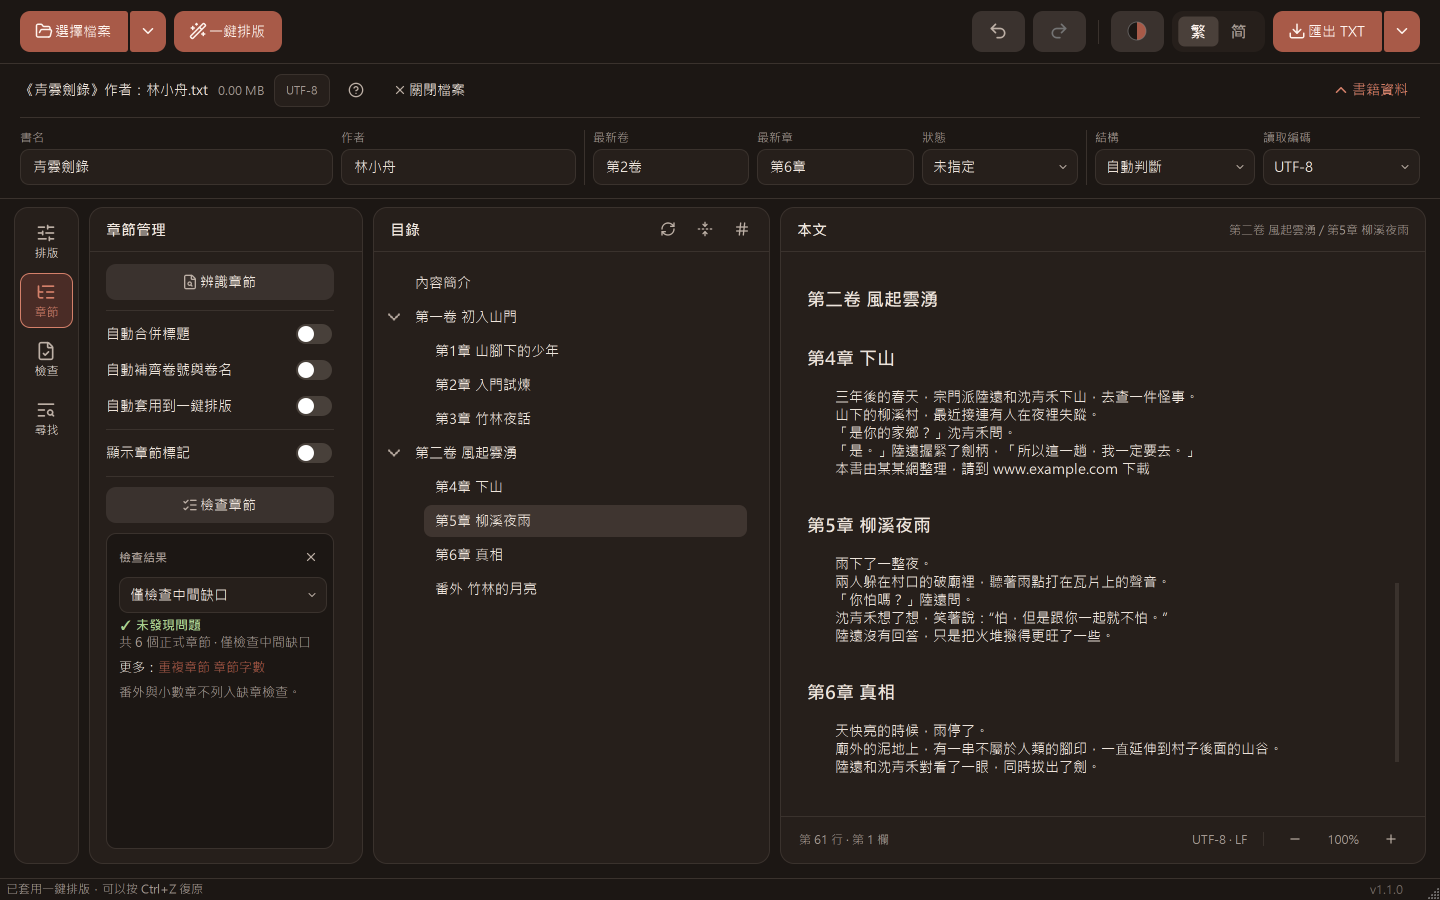
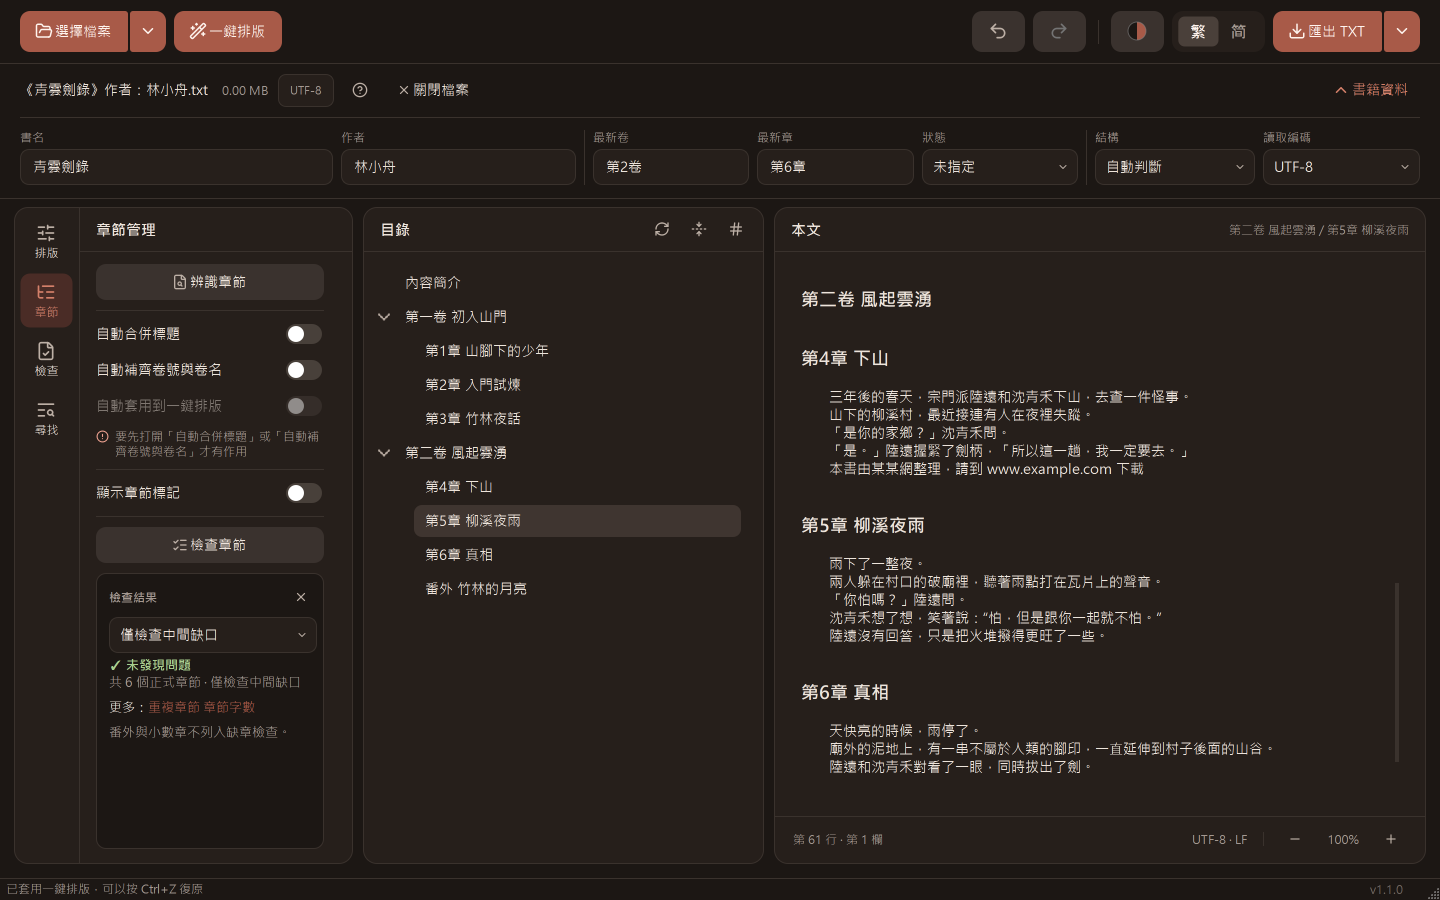
[介面] 圖示列與功能卡片合成一組；設定沒作用時的「!」說明；長檔名中間省略；EPUB 標題裡的換行接成一行

diff --git a/ui_qt/main_window.py b/ui_qt/main_window.py
@@ -89,7 +89,7 @@ from . import __version__
 from .window_common import (
     DEFAULT_STRUCTURE_MODE, EDITOR_BASE_FONT_PX, EDITOR_ZOOM_MAX, EDITOR_ZOOM_MIN, MARKER_GUIDE,
     MARK_SCAN_DELAY_MS, MAX_HIGHLIGHT_SPANS, MAX_HISTORY_CHARS, MAX_HISTORY_STEPS, MIN_HISTORY_STEPS,
-    MERGE_WARN_BYTES, MIN_WINDOW_HEIGHT, MIN_WINDOW_WIDTH, OPEN_FILE_FILTER, PENDING_LINE_MAP_LIMIT, TYPING_CHECKPOINT_DELAY_MS, AUTO_TOC_REFRESH_SECONDS, WARM_CHUNK_LINES, WARM_NOW_LINES,
+    MERGE_WARN_BYTES, MIN_WINDOW_HEIGHT, MIN_WINDOW_WIDTH, OPEN_FILE_FILTER, PENDING_LINE_MAP_LIMIT, TYPING_CHECKPOINT_DELAY_MS, AUTO_TOC_REFRESH_SECONDS, SIDE_RAIL_GAP, WARM_CHUNK_LINES, WARM_NOW_LINES,
     WARM_START_DELAY_MS, WARM_WAITING_SLICE, _LayoutWatcher, _MARKER_REGEX, _MarkScanSignals,
     _NUMBER_WITHOUT_UNIT, _ToolDialogWatcher, _chapter_line_mapper, _diff_line_mapper, _format_line_mapper,
     EPUB_ENCODING, WORD_ENCODING, _line_opcodes, _settle, _tree_depth, openable, short_toc_label,
@@ -541,7 +541,7 @@ class MainWindow(WindowStateMixin, ToolWindowsMixin, TocEditMixin, QMainWindow):
         splitter_wrap = QWidget()
         splitter_wrap_layout = QHBoxLayout(splitter_wrap)
         splitter_wrap_layout.setContentsMargins(14, 8, 14, 14)
-        splitter_wrap_layout.setSpacing(10)
+        splitter_wrap_layout.setSpacing(SIDE_RAIL_GAP)
         # 最左邊的圖示列：一格一張功能卡片，貼在卡片旁邊（名稱一直顯示，不靠滑鼠提示）
         self.side_rail = SideRail([
             ("options", "sliders-horizontal", "排版"),
@@ -2100,6 +2100,7 @@ class MainWindow(WindowStateMixin, ToolWindowsMixin, TocEditMixin, QMainWindow):
         self.chapter_panel.set_merge_titles(False)
         self.chapter_panel.set_infer_volumes(False)
         self._merge_titles = self._infer_volumes = False
+        self._sync_auto_apply_available()
         self._rebuild_preview_toc()
         self._show_status("已取消這本書的預覽；開下一本書時照原本的開關預覽")
 
@@ -2111,6 +2112,7 @@ class MainWindow(WindowStateMixin, ToolWindowsMixin, TocEditMixin, QMainWindow):
         self._suspended_previews = None
         self.chapter_panel.set_merge_titles(self._merge_titles)
         self.chapter_panel.set_infer_volumes(self._infer_volumes)
+        self._sync_auto_apply_available()
 
     def _update_order_hint(self):
         """有章放錯位置時，目錄上方提示「依章號重排」（跟缺章檢查的「順序錯亂」同一套判斷）。"""
@@ -2712,10 +2714,21 @@ class MainWindow(WindowStateMixin, ToolWindowsMixin, TocEditMixin, QMainWindow):
         self.side_rail.set_active({self.options_panel: "options", self.chapter_panel: "chapter",
                                    self.content_panel: "content", self.find_bar: "find"}.get(panel))
         self.side_card.setVisible(panel is not None)
+        self._join_side_card(panel is not None)
         if panel is self.chapter_panel:
             self._refresh_missing_report()
         if was_open != (panel is not None):
             self._resize_cards_for_side_panel(sizes, opening=panel is not None)
+
+    def _join_side_card(self, joined: bool):
+        """功能卡片開著時，左側圖示列跟它合成一組：中間不留空隙、共用外圈的圓角（圖示列右側、卡片左側直角，
+        中間只剩卡片的左框線當分隔），一眼看得出卡片是哪一排按鈕開的。收起時圖示列照舊是獨立的圓角小卡。"""
+        self.side_rail.parentWidget().layout().setSpacing(0 if joined else SIDE_RAIL_GAP)
+        for widget, name in ((self.side_rail, "joinedRight"), (self.side_card, "joinedLeft")):
+            if widget.property(name) != joined:
+                widget.setProperty(name, joined)
+                widget.style().unpolish(widget)
+                widget.style().polish(widget)
 
     def _resize_cards_for_side_panel(self, sizes, opening: bool):
         """開、關功能卡片時目錄卡片維持原本的寬度，只由本文卡片讓出或拿回：

diff --git a/ui_qt/widgets.py b/ui_qt/widgets.py
@@ -550,10 +550,37 @@ class ElidedLabel(QLabel):
     def minimumSizeHint(self):
         return QSize(0, super().minimumSizeHint().height())
 
+    _ELIDE = Qt.TextElideMode.ElideRight
+
     def _apply_elide(self):
         metrics = self.fontMetrics()
-        super().setText(metrics.elidedText(self._full_text, Qt.TextElideMode.ElideRight,
-                                           max(0, self.contentsRect().width())))
+        super().setText(metrics.elidedText(self._full_text, self._ELIDE, max(0, self.contentsRect().width())))
+
+    def is_elided(self) -> bool:
+        return QLabel.text(self) != self._full_text
+
+
+class MiddleElidedLabel(ElidedLabel):
+    """檔名：頭尾都重要（書名在前、作者跟副檔名在後）。夠寬時照全文；不夠時中間用「…」省略，
+    最小寬度固定（MIN_WIDTH），很長的檔名不會把右邊的大小、編碼、關閉檔案擠掉，也不會把視窗最小寬度撐到螢幕外。
+    text() 照樣是完整的檔名，滑鼠移上去也看得到完整的。"""
+
+    MIN_WIDTH = 160
+    _ELIDE = Qt.TextElideMode.ElideMiddle
+
+    def __init__(self, text: str = "", parent=None):
+        super().__init__(text, parent)
+        self.setSizePolicy(QSizePolicy.Policy.Preferred, QSizePolicy.Policy.Preferred)
+
+    def sizeHint(self):
+        return QSize(self.fontMetrics().horizontalAdvance(self._full_text) + 4, super().sizeHint().height())
+
+    def minimumSizeHint(self):
+        return QSize(min(self.MIN_WIDTH, self.sizeHint().width()), super().minimumSizeHint().height())
+
+    def setText(self, text: str):
+        super().setText(text)
+        self.updateGeometry()
 
 
 class VDivider(QFrame):
@@ -673,6 +700,29 @@ class _GripHandle(QSplitterHandle):
     def leaveEvent(self, event):
         self.update()
         super().leaveEvent(event)
+
+
+class ConditionNote(QWidget):
+    """設定「現在沒作用」時寫在它底下的原因：圓圈驚嘆號＋一句話（UI_RULES：只在沒作用時出現，
+    一般開關的說明照舊寫在狀態列，不每個都掛一行）。"""
+
+    def __init__(self, text: str, parent=None):
+        super().__init__(parent)
+        layout = QHBoxLayout(self)
+        layout.setContentsMargins(0, 0, 0, 0)
+        layout.setSpacing(6)
+        self.icon = QLabel()
+        layout.addWidget(self.icon, 0, Qt.AlignmentFlag.AlignTop)
+        self.label = QLabel(text)
+        self.label.setObjectName("fileLabel")
+        self.label.setWordWrap(True)
+        layout.addWidget(self.label, 1)
+        self.hide()
+
+    def set_colors(self, tokens):
+        size = self.label.fontMetrics().height() - 2
+        self.icon.setPixmap(icons.make_icon("circle-alert", tokens.warn_text, size).pixmap(size, size))
+        self.icon.setFixedSize(size, self.label.fontMetrics().height())
 
 
 class Divider(QFrame):

diff --git a/core/epub_reader.py b/core/epub_reader.py
@@ -23,6 +23,7 @@ _DOCUMENT_TYPES = {"application/xhtml+xml", "text/html", "application/x-dtbook+x
 _BLOCKS = {"p", "div", "h1", "h2", "h3", "h4", "h5", "h6", "li", "blockquote", "pre", "tr", "section",
            "article", "header", "footer", "dt", "dd", "figcaption", "caption", "hr", "table", "ul", "ol"}
 _SKIPPED = {"script", "style", "head", "title", "svg", "math", "rt", "rp"}
+_HEADINGS = {"h1", "h2", "h3", "h4", "h5", "h6"}
 _SPACES = re.compile(r"[ \t\r\n\f\v]+")
 
 
@@ -31,13 +32,16 @@ class EpubError(Exception):
 
 
 class _TextExtractor(HTMLParser):
-    """區塊元素各自一行，br 換行；行內的空白、換行照 HTML 的規則縮成一個空格。"""
+    """區塊元素各自一行，br 換行；行內的空白、換行照 HTML 的規則縮成一個空格。
+    標題（h1～h6）裡的 br 當成空格：「<h2>第一章<br/>一人一刀</h2>」是一個標題，拆成兩行的話章名會變成正文、
+    目錄只剩章號（要開自動合併標題才接得回來）。"""
 
     def __init__(self):
         super().__init__(convert_charrefs=True)
         self.lines: list[str] = []
         self._current: list[str] = []
         self._skip_depth = 0
+        self._heading_depth = 0
 
     def _flush(self):
         text = _SPACES.sub(" ", "".join(self._current)).strip()
@@ -50,12 +54,23 @@ class _TextExtractor(HTMLParser):
         if tag in _SKIPPED:
             self._skip_depth += 1
         elif tag == "br":
-            self._flush()
+            self._line_break()
         elif tag in _BLOCKS:
+            self._flush()
+            if tag in _HEADINGS:
+                self._heading_depth += 1
+
+    def _line_break(self):
+        if self._heading_depth:
+            self._current.append(" ")
+        else:
             self._flush()
 
     def handle_startendtag(self, tag, attrs):
-        if tag.lower() in ("br", "hr"):
+        tag = tag.lower()
+        if tag == "br":
+            self._line_break()
+        elif tag == "hr":
             self._flush()
 
     def handle_endtag(self, tag):
@@ -64,6 +79,8 @@ class _TextExtractor(HTMLParser):
             self._skip_depth = max(0, self._skip_depth - 1)
         elif tag in _BLOCKS:
             self._flush()
+            if tag in _HEADINGS:
+                self._heading_depth = max(0, self._heading_depth - 1)
 
     def handle_data(self, data):
         if not self._skip_depth:

diff --git a/ui_qt/chapter_panel.py b/ui_qt/chapter_panel.py
@@ -9,7 +9,7 @@ from PySide6.QtWidgets import (
 )
 
 from . import i18n
-from .widgets import Divider, HoverIconButton, IconButton, PanelScroll, ToggleSwitch, make_card_header
+from .widgets import ConditionNote, Divider, HoverIconButton, IconButton, PanelScroll, ToggleSwitch, make_card_header
 
 MISSING_CHECK_MODES = ["僅檢查中間缺口", "每卷從第1章起算", "同作品跨卷接續"]
 
@@ -74,6 +74,9 @@ class ChapterPanel(QWidget):
         self.auto_apply_toggle = ToggleSwitch("自動套用到一鍵排版")
         self.auto_apply_toggle.clicked.connect(lambda checked: self.auto_apply_preview_toggled.emit(checked))
         root.addWidget(self.auto_apply_toggle)
+        # 兩個預覽開關都關著時沒有東西可以套用：開關變灰，寫出原因
+        self.auto_apply_note = ConditionNote("要先打開「自動合併標題」或「自動補齊卷號與卷名」才有作用")
+        root.addWidget(self.auto_apply_note)
         # 開關只是預覽；「套用到本文」「取消預覽」在目錄上方的預覽列，跟預覽的目錄在一起
 
         root.addWidget(Divider())
@@ -117,6 +120,10 @@ class ChapterPanel(QWidget):
         self.infer_volumes_toggle.blockSignals(True)
         self.infer_volumes_toggle.setChecked(on)
         self.infer_volumes_toggle.blockSignals(False)
+
+    def set_auto_apply_available(self, available: bool):
+        self.auto_apply_toggle.setEnabled(available)
+        self.auto_apply_note.setVisible(not available)
 
     def set_auto_apply(self, on: bool):
         self.auto_apply_toggle.setChecked(on)
@@ -185,6 +192,7 @@ class ChapterPanel(QWidget):
     def set_report_theme(self, tokens):
         self._tokens = tokens
         self.report_close_button.set_colors(tokens.icon, tokens.icon_hover, tokens.text_faint)
+        self.auto_apply_note.set_colors(tokens)
         if self._report is not None:
             self._render_report()
 

diff --git a/ui_qt/window_toc_edit.py b/ui_qt/window_toc_edit.py
@@ -24,6 +24,7 @@ class TocEditMixin:
     def _on_merge_titles_toggled(self, on: bool):
         self._merge_titles = on
         self._suspended_previews = None      # 自己切了開關：以切過的為準，換書不再恢復取消預覽前的設定
+        self._sync_auto_apply_available()
         self._rebuild_preview_toc()
         self._show_status("已開啟自動合併標題：「第1章」接上下一行的章名；同一章的標題連續出現兩次只留第一個；"
                           "只有章號、底下緊接著另一章標題的只留有章名的" + _PREVIEW_NOTE if on else "已關閉自動合併標題")
@@ -36,9 +37,14 @@ class TocEditMixin:
     def _on_infer_volumes_toggled(self, on: bool):
         self._infer_volumes = on
         self._suspended_previews = None      # 自己切了開關：以切過的為準，換書不再恢復取消預覽前的設定
+        self._sync_auto_apply_available()
         self._rebuild_preview_toc()
         self._show_status("已開啟自動補齊卷號與卷名：從卷結尾行、章號重新起算、每章前面的卷號推出缺少的卷，"
                           "找得到卷名一起補上" + _PREVIEW_NOTE if on else "已關閉自動補齊卷號與卷名")
+
+    def _sync_auto_apply_available(self):
+        """「自動套用到一鍵排版」只在有預覽可以套時有作用：兩個預覽開關都關著時變灰、寫出原因。"""
+        self.chapter_panel.set_auto_apply_available(self._merge_titles or self._infer_volumes)
 
     def _on_auto_apply_preview_toggled(self, on: bool):
         self._auto_apply_preview = on

diff --git a/ui_qt/metadata_bar.py b/ui_qt/metadata_bar.py
@@ -11,7 +11,7 @@ from PySide6.QtWidgets import (
 )
 
 from . import i18n
-from .widgets import Divider, IconButton, IconTextButton, VDivider
+from .widgets import Divider, IconButton, IconTextButton, MiddleElidedLabel, VDivider
 
 STRUCTURE_CHOICES = ["自動判斷", "單本小說", "多作品合集"]
 STATUS_CHOICES = ["未指定", "未完結", "已完結"]
@@ -40,7 +40,8 @@ class MetadataBar(QWidget):
 
         # 檔名要能反白複製（常常要拿去搜尋或改名）；大小另外放一個標籤，
         # 複製到的才會是乾淨的檔名。
-        self.filename_label = QLabel("尚未開啟檔案")
+        # 很長的檔名在中間省略（MiddleElidedLabel），不把右邊的大小、編碼、關閉檔案擠掉
+        self.filename_label = MiddleElidedLabel("尚未開啟檔案")
         # 檔名是內容，不跟著介面切換繁簡；沒開檔時的提示字另外處理。
         i18n.skip(self.filename_label)
         self._filename_placeholder = True
@@ -208,7 +209,8 @@ class MetadataBar(QWidget):
 
     def _show_filename_menu(self, pos):
         menu = QMenu(self)
-        selected = self.filename_label.selectedText()
+        # 省略過的檔名反白到的是畫面上的字（含「…」）：那時一律複製完整檔名
+        selected = "" if self.filename_label.is_elided() else self.filename_label.selectedText()
         copy_action = menu.addAction("複製" if selected else "複製檔名")
         copy_action.triggered.connect(
             lambda: QApplication.clipboard().setText(selected or self.filename_label.text()))

diff --git a/ui_qt/filename_dialog.py b/ui_qt/filename_dialog.py
@@ -12,7 +12,8 @@ from core.filename_meta import (
 )
 from core.script_convert import SCRIPT_CHOICES, convert_script
 from . import i18n
-from .widgets import Divider, ToggleSwitch, dialog_frame, flow_container, keep_on_screen
+from .theme import active_tokens
+from .widgets import ConditionNote, Divider, ToggleSwitch, dialog_frame, flow_container, keep_on_screen
 
 
 class _TemplateInput(QLineEdit):
@@ -94,6 +95,10 @@ class FilenameDialog(QDialog):
         self.format_combo.currentIndexChanged.connect(self._update_mode_enabled)
         format_row.addStretch(1)
         root.addLayout(format_row)
+        # EPUB 固定整本一個檔（章節是書裡的目錄）：匯出方式變灰時寫出原因
+        self.mode_note = ConditionNote("EPUB 一律整本一個檔，章節會做成書裡的目錄")
+        self.mode_note.set_colors(active_tokens())
+        root.addWidget(self.mode_note)
         root.addSpacing(4)
         self.strip_markers_toggle = ToggleSwitch("匯出時移除章節標記", fill=False)
         self.strip_markers_toggle.setChecked(strip_markers)
@@ -187,6 +192,7 @@ class FilenameDialog(QDialog):
         if epub:
             self.mode_combo.setCurrentIndex(0)
         self.mode_combo.setEnabled(not epub)
+        self.mode_note.setVisible(epub)
 
     def _preview(self, template: str, default: str) -> str:
         name = build_smart_filename(self._fields, template.strip() or default)

diff --git a/ui_qt/theme.py b/ui_qt/theme.py
@@ -271,6 +271,16 @@ def build_stylesheet(t: Tokens, chevron_closed_path: str = "", chevron_open_path
         border: 1px solid {t.border};
         border-radius: 14px;
     }}
+    /* 功能卡片開著時，左側圖示列跟它合成一組：共用外圈的圓角，中間只剩卡片的左框線（main_window._join_side_card） */
+    #card[joinedRight="true"] {{
+        border-right: none;
+        border-top-right-radius: 0;
+        border-bottom-right-radius: 0;
+    }}
+    #card[joinedLeft="true"] {{
+        border-top-left-radius: 0;
+        border-bottom-left-radius: 0;
+    }}
     /* 每張卡片上緣的標題列：標題＋該卡片自己的動作圖示，用一條底線跟
        內容區分開，讓三張卡片看起來是同一套結構。 */
     #cardHeader {{

diff --git a/ui_qt/icons.py b/ui_qt/icons.py
@@ -32,6 +32,7 @@ _ICON_BODIES = {
     "chevron-down": '<path d="m6 9 6 6 6-6"/>',
     "chevron-up": '<path d="m18 15-6-6-6 6"/>',
     "circle-check": '<circle cx="12" cy="12" r="10"/><path d="m9 12 2 2 4-4"/>',
+    "circle-alert": '<circle cx="12" cy="12" r="10"/><path d="M12 8v4"/><path d="M12 16h.01"/>',
     "circle-help": ('<circle cx="12" cy="12" r="10"/>'
                     '<path d="M9.09 9a3 3 0 0 1 5.83 1c0 2-3 3-3 3"/><path d="M12 17h.01"/>'),
     "download": '<path d="M12 15V3"/><path d="M21 15v4a2 2 0 0 1-2 2H5a2 2 0 0 1-2-2v-4"/><path d="m7 10 5 5 5-5"/>',

diff --git a/ui_qt/window_common.py b/ui_qt/window_common.py
@@ -18,6 +18,7 @@ MIN_HISTORY_STEPS = 3
 # 輸入時多久沒有新的按鍵才視為一次「停頓」、存成一個復原步驟；
 # 不是每個按鍵都存一份，那樣復原歷史會被打字過程灌爆。
 TYPING_CHECKPOINT_DELAY_MS = 450
+SIDE_RAIL_GAP = 10                 # 左側圖示列跟卡片之間的距離（功能卡片開著時是 0：合成一組）
 AUTO_TOC_REFRESH_SECONDS = 0.15   # 重建目錄在這之內的書，打字停下來就自動更新目錄
 
 DEFAULT_STRUCTURE_MODE = "自動判斷"

diff --git a/ui_qt/window_state.py b/ui_qt/window_state.py
@@ -249,6 +249,7 @@ class WindowStateMixin:
         self.chapter_panel.set_auto_apply(self._auto_apply_preview)
         self._merge_titles = bool(state.get("merge_titles"))
         self.chapter_panel.set_merge_titles(self._merge_titles)
+        self._sync_auto_apply_available()
         if isinstance(state.get("disabled_words"), list):
             self.disabled_words = frozenset(str(word) for word in state["disabled_words"])
         if isinstance(state.get("special_levels"), dict):
